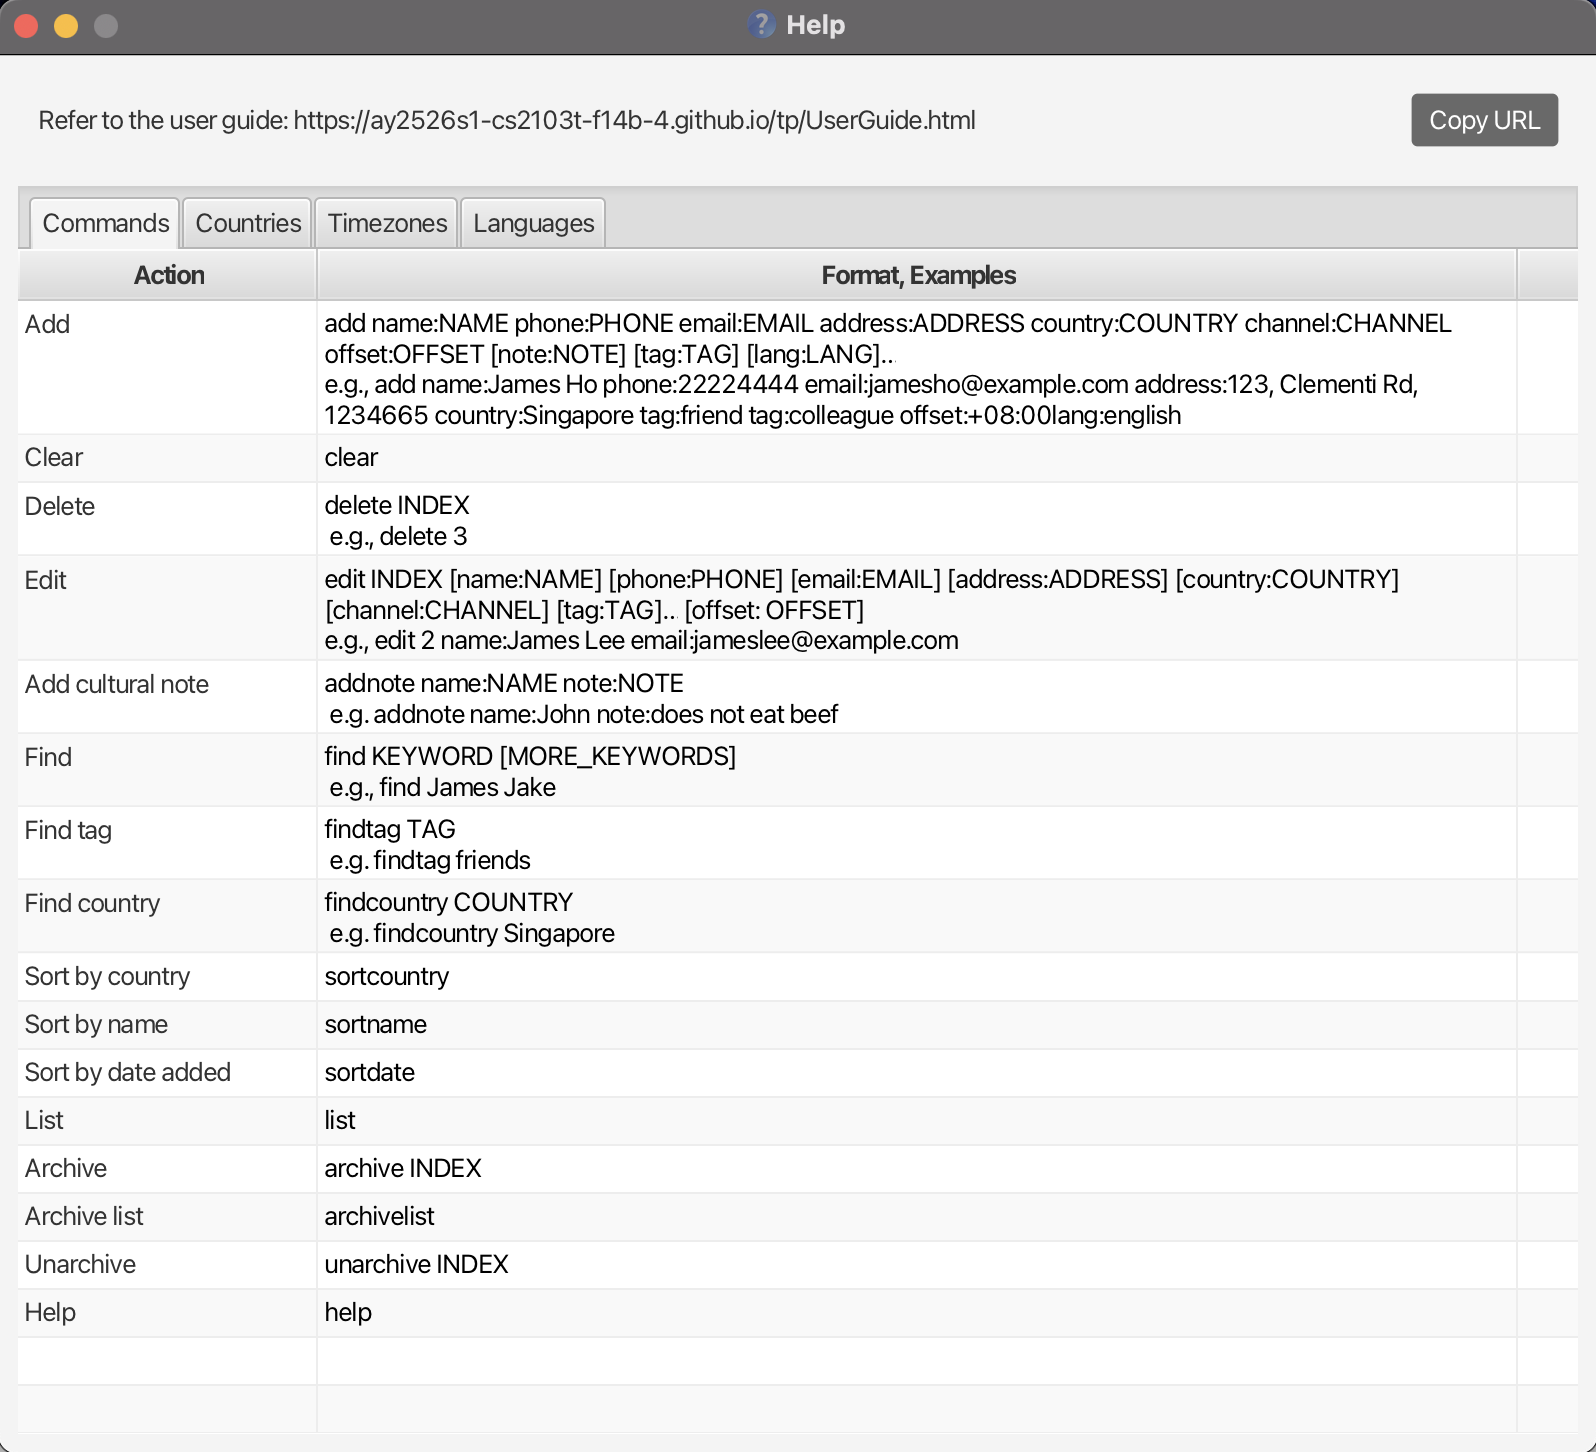
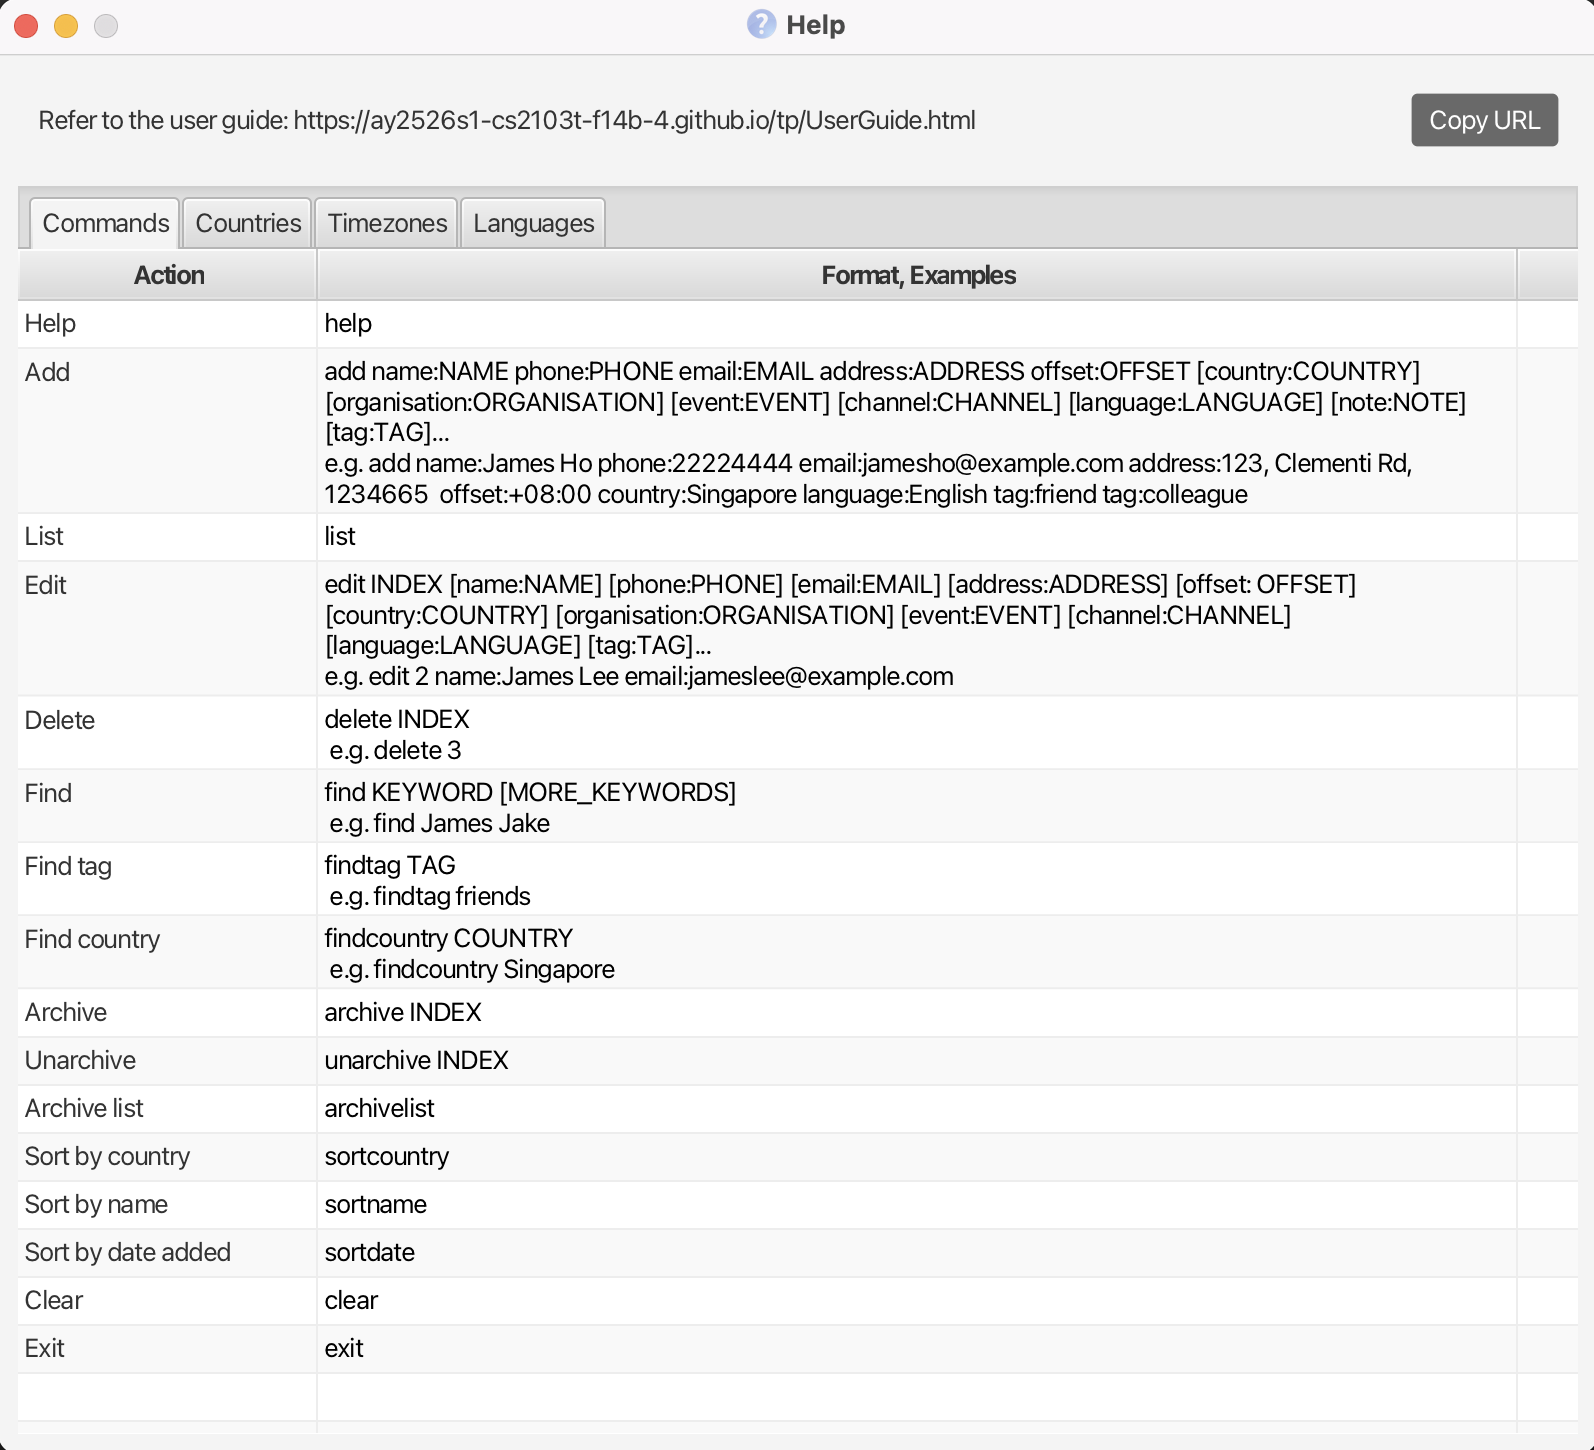
Edit help window

diff --git a/src/main/java/seedu/address/ui/HelpWindow.java b/src/main/java/seedu/address/ui/HelpWindow.java
@@ -91,9 +91,6 @@ public class HelpWindow extends UiPart<Stage> {
     private TableColumn<LanguageEntry, String> languageNameColumn;
 
     @FXML
-    private TableColumn<LanguageEntry, String> languageCodeColumn;
-
-    @FXML
     private TableColumn<LanguageEntry, String> languageCountriesColumn;
 
     @FXML
@@ -206,29 +203,30 @@ public class HelpWindow extends UiPart<Stage> {
         commandTableView.setFixedCellSize(-1);
 
         commandTableView.getItems().addAll(
-                new CommandEntry("Add", "add name:NAME phone:PHONE email:EMAIL address:ADDRESS "
-                        + "country:COUNTRY channel:CHANNEL offset:OFFSET " + "[note:NOTE] [tag:TAG] [lang:LANG]…\n"
-                        + "e.g., add name:James Ho phone:22224444 email:jamesho@example.com "
-                        + "address:123, Clementi Rd, 1234665 country:Singapore tag:friend tag:colleague offset:+08:00"
-                        + "lang:english"),
-                new CommandEntry("Clear", "clear"),
-                new CommandEntry("Delete", "delete INDEX\n e.g., delete 3"),
+                new CommandEntry("Help", "help"),
+                new CommandEntry("Add", "add name:NAME phone:PHONE email:EMAIL address:ADDRESS offset:OFFSET "
+                        + "[country:COUNTRY] [organisation:ORGANISATION] [event:EVENT] [channel:CHANNEL] "
+                        + "[language:LANGUAGE] [note:NOTE] [tag:TAG]...\n"
+                        + "e.g. add name:James Ho phone:22224444 email:jamesho@example.com "
+                        + "address:123, Clementi Rd, 1234665  offset:+08:00 country:Singapore language:English "
+                        + "tag:friend tag:colleague"),
+                new CommandEntry("List", "list"),
                 new CommandEntry("Edit", "edit INDEX [name:NAME] [phone:PHONE] [email:EMAIL] "
-                        + "[address:ADDRESS] [country:COUNTRY] [channel:CHANNEL] [tag:TAG]… [offset: OFFSET]\n"
-                        + "e.g., edit 2 name:James Lee email:jameslee@example.com"),
-                new CommandEntry("Add cultural note",
-                        "addnote name:NAME note:NOTE\n e.g. addnote name:John note:does not eat beef"),
-                new CommandEntry("Find", "find KEYWORD [MORE_KEYWORDS]\n e.g., find James Jake"),
+                        + "[address:ADDRESS] [offset: OFFSET] [country:COUNTRY] [organisation:ORGANISATION] [event:EVENT] "
+                        + "[channel:CHANNEL] [language:LANGUAGE] [tag:TAG]...\n"
+                        + "e.g. edit 2 name:James Lee email:jameslee@example.com"),
+                new CommandEntry("Delete", "delete INDEX\n e.g. delete 3"),
+                new CommandEntry("Find", "find KEYWORD [MORE_KEYWORDS]\n e.g. find James Jake"),
                 new CommandEntry("Find tag", "findtag TAG\n e.g. findtag friends"),
                 new CommandEntry("Find country", "findcountry COUNTRY\n e.g. findcountry Singapore"),
+                new CommandEntry("Archive", "archive INDEX"),
+                new CommandEntry("Unarchive", "unarchive INDEX"),
+                new CommandEntry("Archive list", "archivelist"),
                 new CommandEntry("Sort by country", "sortcountry"),
                 new CommandEntry("Sort by name", "sortname"),
                 new CommandEntry("Sort by date added", "sortdate"),
-                new CommandEntry("List", "list"),
-                new CommandEntry("Archive", "archive INDEX"),
-                new CommandEntry("Archive list", "archivelist"),
-                new CommandEntry("Unarchive", "unarchive INDEX"),
-                new CommandEntry("Help", "help"));
+                new CommandEntry("Clear", "clear"),
+                new CommandEntry("Exit", "exit"));
 
         countryNameColumn.setCellValueFactory(new PropertyValueFactory<>("name"));
         countryCodeColumn.setCellValueFactory(new PropertyValueFactory<>("code"));
@@ -291,7 +289,6 @@ public class HelpWindow extends UiPart<Stage> {
         languages.sort(Comparator.comparing(LanguageEntry::getName));
 
         languageNameColumn.setCellValueFactory(new PropertyValueFactory<>("name"));
-        languageCodeColumn.setCellValueFactory(new PropertyValueFactory<>("code"));
         languageCountriesColumn.setCellValueFactory(new PropertyValueFactory<>("countriesUsed"));
 
         languageCountriesColumn.setCellFactory(col ->

diff --git a/docs/UserGuide.md b/docs/UserGuide.md
@@ -53,7 +53,7 @@ Worldly is a **desktop app for exchange students looking to manage their contact
   e.g `name:NAME [tag:TAG]` can be used as `name:John Doe tag:friend` or as `name:John Doe`.
 
 * Parameters with `…` after them can be used multiple times, including not at all.<br>
-  e.g. `[tag:TAG]…` can be used as ` ` (i.e. 0 times), `tag:friend`, `tag:friend tag:family` etc.
+  e.g. `[tag:TAG]...` can be used as ` ` (i.e. 0 times), `tag:friend`, `tag:friend tag:family` etc.
 
 * Parameters can be in any order.<br>
   e.g. If the command specifies `name:NAME phone:PHONE_NUMBER`, `phone:PHONE_NUMBER name:NAME` is also acceptable.
@@ -80,9 +80,9 @@ Format: `help`
 
 Adds a person to the address book.
 
-Format: `add name:NAME phone:PHONE_NUMBER email:EMAIL address:ADDRESS channel:CHANNEL offset:OFFSET [country:COUNTRY] [event:EVENT] [channel:CHANNEL] [language: LANGUAGE] [note:NOTE] [tag:TAG]…`
+Format: `add name:NAME phone:PHONE_NUMBER email:EMAIL address:ADDRESS channel:CHANNEL offset:OFFSET [country:COUNTRY] [event:EVENT] [channel:CHANNEL] [language: LANGUAGE] [note:NOTE] [tag:TAG]...`
 
-* A tag with the person's country calling code is automatically added if it is included in the phone number.
+* A tag with the person's country calling code is automatically added if the phone number starts with `+[COUNTRY CODE]`.
 * The channel field may be omitted, but if it is included, it **cannot be left blank**. You must specify one of the allowed channels: PHONE, EMAIL, SMS, WHATSAPP, or TELEGRAM. The channel is **case-insensitive**.
 * The offset refers to the timezone offset with respect to UTC and must be specified in +/-HH:MM. You may refer to the help window (with `help`) for a reference table of offset values.
 * The language field is optional, but if omitted, defaults to English. It is **case-insensitive** and must match a language in the provided list (in `help`) **exactly**.
@@ -104,15 +104,14 @@ Format: `list`
 
 Edits an existing person in the address book.
 
-Format: `edit INDEX [name:NAME] [phone:PHONE] [email:EMAIL] [address:ADDRESS] [offset: OFFSET] [country:COUNTRY] [channel: CHANNEL] [language:LANGUAGE] [tag:TAG]…`
+Format: `edit INDEX [name:NAME] [phone:PHONE] [email:EMAIL] [address:ADDRESS] [offset: OFFSET] [country:COUNTRY] [channel: CHANNEL] [language:LANGUAGE] [tag:TAG]...`
 
-* Edits the person at the specified `INDEX`. The index refers to the index number shown in the currently displayed person list. The index **must be a positive integer** 1, 2, 3, …
+* Edits the person at the specified `INDEX`. The index refers to the index number shown in the currently displayed person list. The index **must be a positive integer** 1, 2, 3, ...
 * At least one of the optional fields must be provided.
 * Existing values will be updated to the input values.
 * When editing country, leaving the prefix blank (i.e. country:) will remove the existing country.
 * When editing tags, the existing tags of the person will be removed i.e adding of tags is not cumulative. You can remove all the person’s tags by typing `tag:` without specifying any tags after it.
 * If the currently viewed list is not the main list (e.g. if a `find` command was previously run), the index will refer to that of the **current list**, not the main list.
-* Notes and events must be updated with `addnote` and `addevent` respectively.
 
 Examples:
 *  `edit 1 phone:91234567 email:johndoe@example.com` edits the phone number and email address of the 1st person in the current list to be `91234567` and `johndoe@example.com` respectively.
@@ -131,41 +130,6 @@ Format: `delete INDEX`
 Examples:
 * `list` followed by `delete 2` deletes the 2nd person in the address book.
 * `find Betsy` followed by `delete 1` deletes the 1st person in the results of the `find` command.
-
-### Adding an organisation to existing persons: `addorg`
-
-Adds or updates the existing contact's organisation.
-
-Format: `addorg name:NAME organisation:ORGANISATION`
-
-To remove an existing contact's organisation record:
-
-Format: `addorg name:NAME organisation:`
-
-Examples:
-* `addorg name: John Doe organisation: National University of Singapore`
-
-### Adding an event to existing persons: `addevent`
-
-Adds or updates an event for an existing person.
-
-Format: `addevent name:NAME event:EVENT`
-
-* `event:` clears the existing event if any.
-
-Examples:
-* `addevent name:John Doe event:Met at NUS Career Fair 2024`
-
-### Adding a note to existing persons: `addnote`
-
-Adds or updates a note to an existing person.
-
-Format: `addnote name:NAME note:NOTE`
-
-* `note:` clears the existing note if any.
-
-Examples:
-* `addnote name:John Doe note:Cannot drink alcohol`
 
 ### Finding persons by name: `find`
 
@@ -318,13 +282,10 @@ Furthermore, certain edits can cause Worldly to behave in unexpected ways (e.g.,
 Action | Format and Examples
 --------|------------------
 **Help** | `help`
-**Add** | `add name:NAME phone:PHONE_NUMBER email:EMAIL address:ADDRESS offset:OFFSET [country:COUNTRY] [event:EVENT] [channel:CHANNEL] [language:LANGUAGE] [note:NOTE] [tag:TAG]…` <br> e.g., `add name:John Doe phone:98765432 email:johnd@example.com address:John street, block 123, #01-01 offset:+08:00 country:Singapore channel:email note:does not drink alcohol tag:friends`
+**Add** | `add name:NAME phone:PHONE_NUMBER email:EMAIL address:ADDRESS offset:OFFSET [country:COUNTRY] [event:EVENT] [channel:CHANNEL] [language:LANGUAGE] [note:NOTE] [tag:TAG]...` <br> e.g., `add name:John Doe phone:98765432 email:johnd@example.com address:John street, block 123, #01-01 offset:+08:00 country:Singapore channel:email note:does not drink alcohol tag:friends`
 **List** | `list`
-**Edit** | `edit INDEX [name:NAME] [phone:PHONE_NUMBER] [email:EMAIL] [address:ADDRESS] [offset:OFFSET] [country:COUNTRY] [channel:CHANNEL] [language:LANGUAGE] [tag:TAG]…`<br> e.g., `edit 2 name:James Lee email:jameslee@example.com`
+**Edit** | `edit INDEX [name:NAME] [phone:PHONE_NUMBER] [email:EMAIL] [address:ADDRESS] [offset:OFFSET] [country:COUNTRY] [channel:CHANNEL] [language:LANGUAGE] [tag:TAG]...`<br> e.g., `edit 2 name:James Lee email:jameslee@example.com`
 **Delete** | `delete INDEX`<br> e.g., `delete 3`
-**Add Event** | `addevent name:NAME event:EVENT` <br> e.g., `addevent name:John Doe event:Met at NUS Career Fair 2024`
-**Add Note** | `addnote name:NAME note:NOTE` <br> e.g., `addnote name:John Doe note:Cannot drink alcohol`
-**Add Organisation** | `addorg name:NAME organisation:ORGANISATION` <br> e.g., `addorg name:John Doe organisation:National University of Singapore`
 **Find** | `find KEYWORD [MORE_KEYWORDS]`<br> e.g., `find James Jake`
 **Find Country** | `findcountry COUNTRY`<br> e.g., `find Singapore`
 **Find Tag** | `findtag TAG [MORE_TAGS]`<br> e.g., `find friends`
